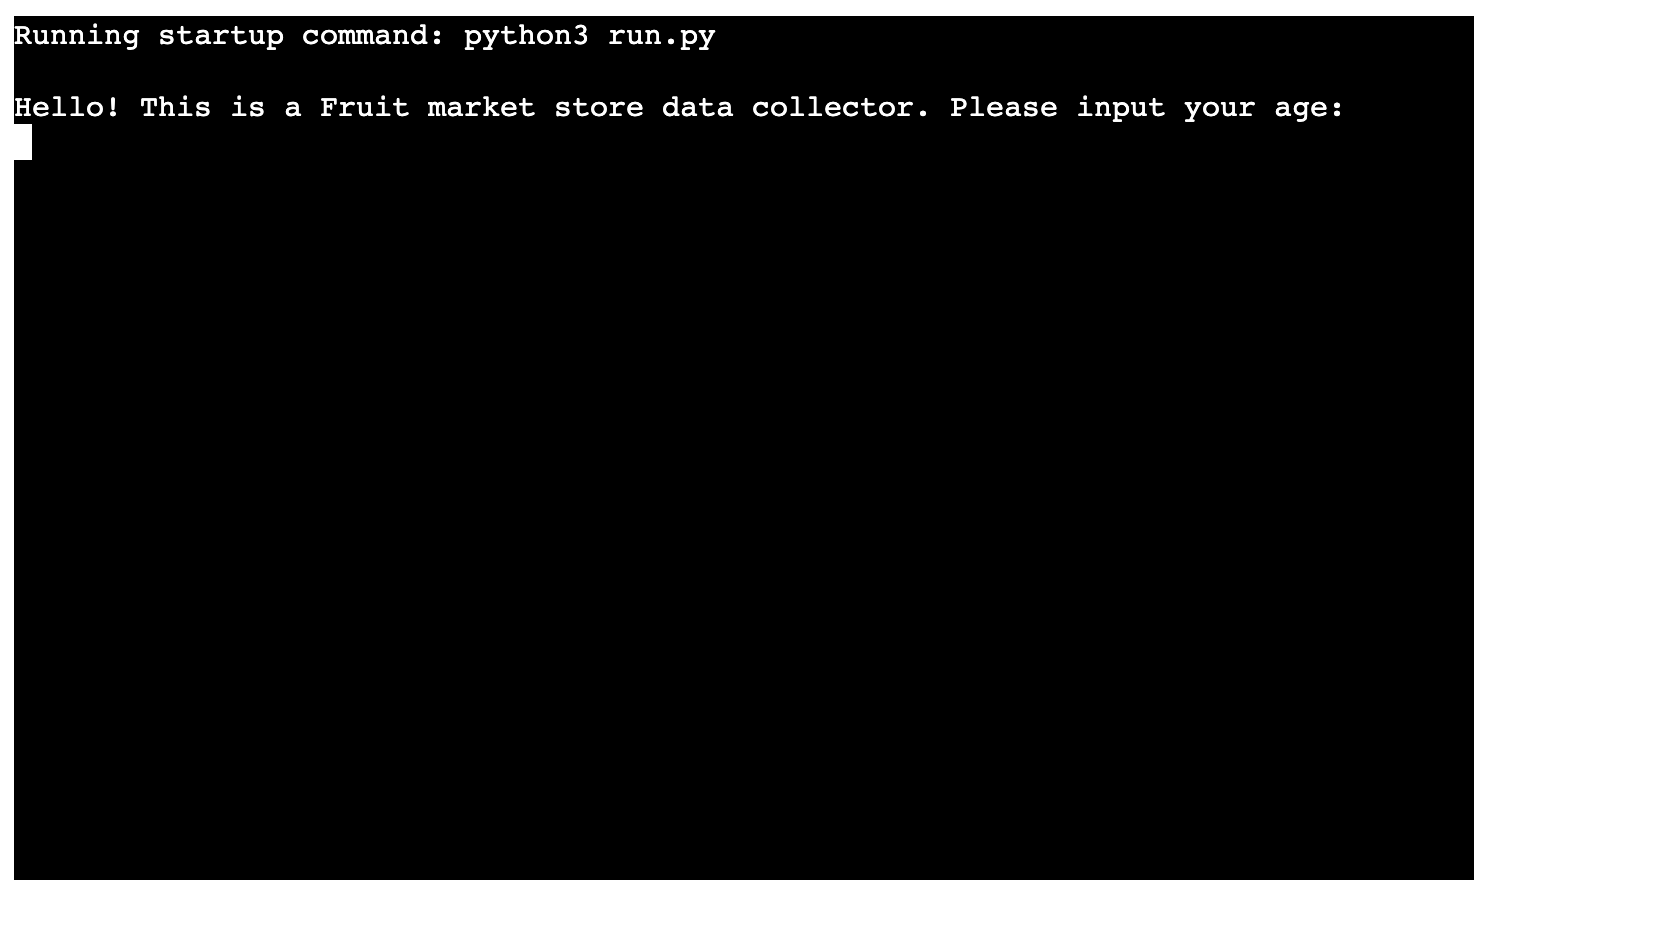
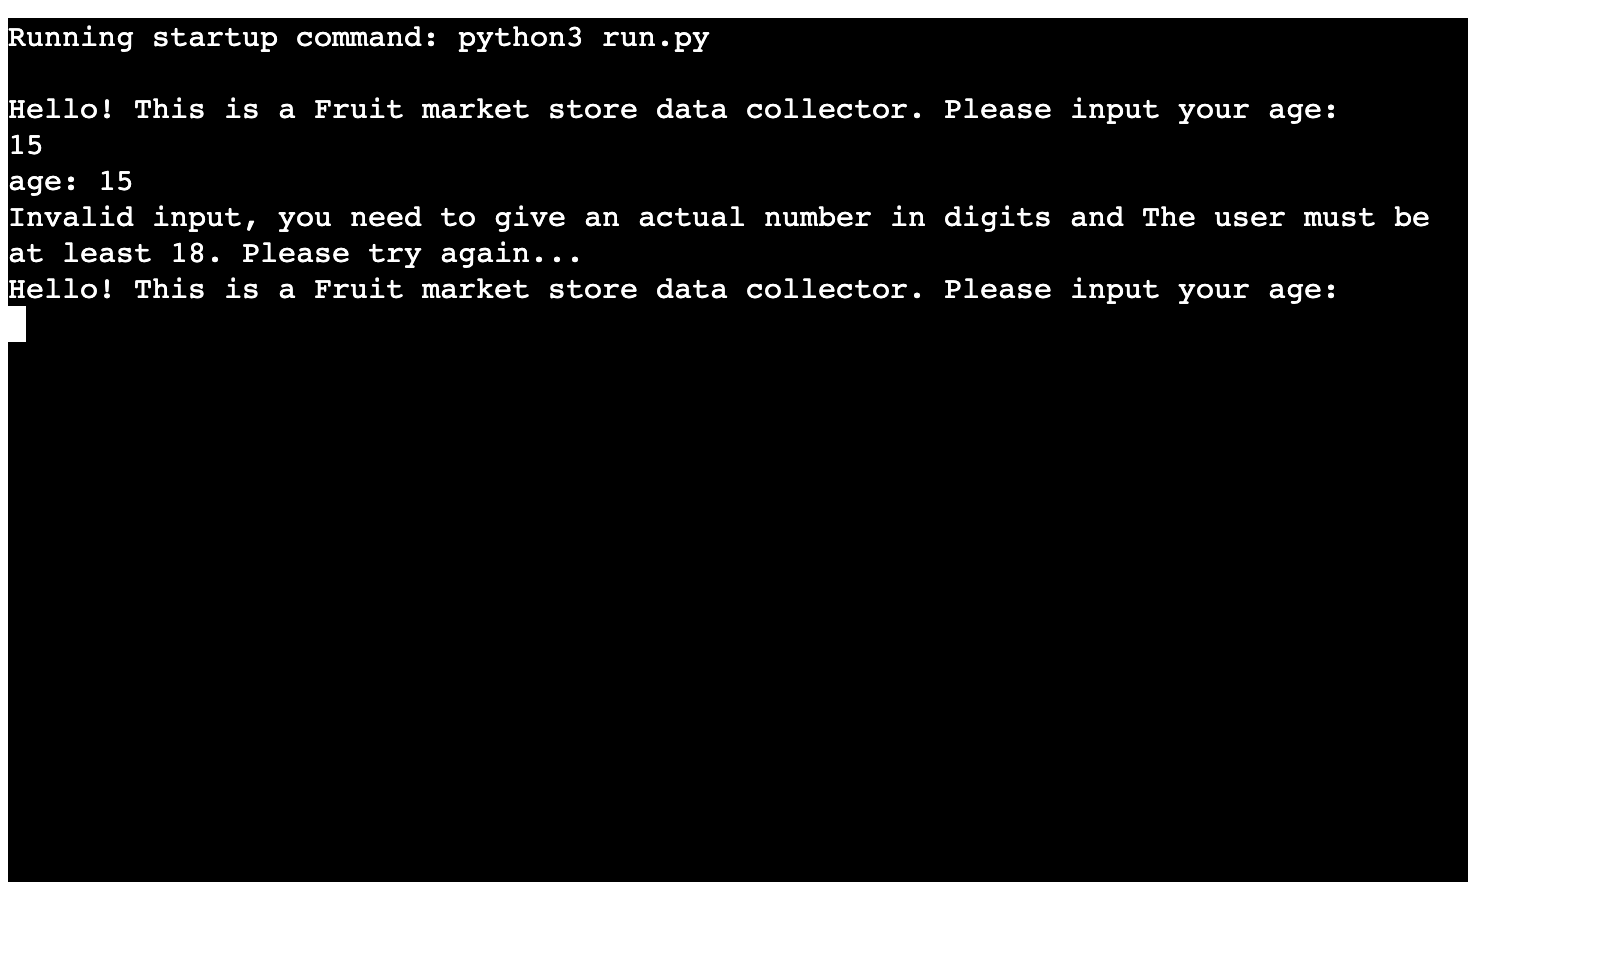
add some pictures to the ReadMe file to give more details about the program

Changed region(s): [[0.0, 0.0, 0.9248, 0.9544], [0.5857, 0.2771, 0.8323, 0.3079]]

diff --git a/README.md b/README.md
@@ -23,18 +23,25 @@ Here is the live version of the project.
 
 The program starts by asking for your age and the name of your fruit market store. It ensures that the user is at least 18 years old to proceed.
 
-![Alt Text](./media/2.png)
-
-The program stops if the user is less than 18
-
 ![Alt Text](./media/3.png)
 
-The program continues to ask the user to pick a name for their market
+The program will inform the user that they must be at least 18 incase they're younger and will ask the user to reinput the age if the user doesnt insert a value of numbers.
+
+![Alt Text](./media/2.png)
+![Alt Text](./media/12.png)
+
+
+Now that the user is at least 18, the program asks the user to pick a name for their market, which has to be using letters only.
+
+![Alt Text](./media/13.png)
 
 ![Alt Text](./media/4.png)
 
 - Data Status:
 The program will ask the user if the business day is over to start inserting the data or not by sending a yes or no:
+
+In case the user inputs a value other than yes or no :
+![Alt Text](./media/14.png)
 
 In case it isnt done:
 ![Alt Text](./media/5.png)
